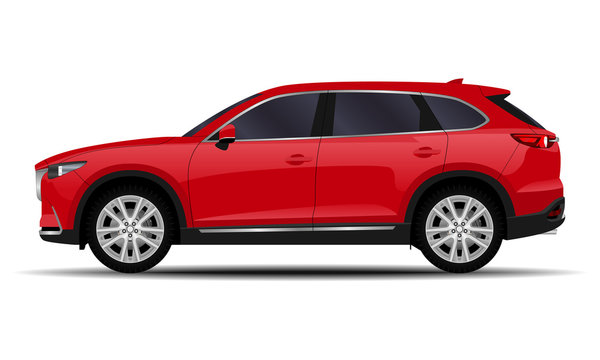
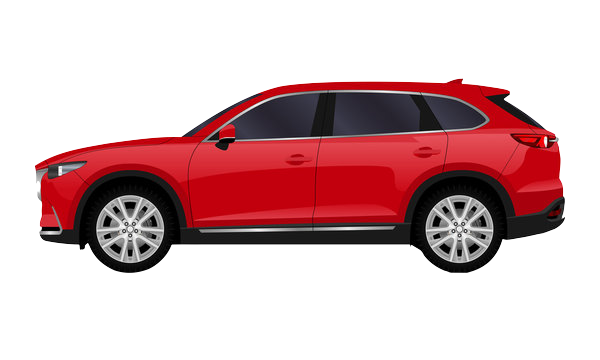
make some changes on images

diff --git a/styles/main.css b/styles/main.css
@@ -14,10 +14,10 @@ body {
 .box {
   position: absolute;
   top: 300px;
-  width: 500px;
-  height: 300px;
+  width: 550px;
+  height: 350px;
   background-size: cover;
-  background-image: url("../images/car1.jpg");
+  background-image: url("../images/car1.png");
   animation-name: car1;
   animation-delay: 1s;
   animation-duration: 10s;
@@ -47,7 +47,7 @@ body {
   width: 100px;
   height: 100px;
   animation-name: sun;
-  background-image: url("../images/sun.jpg");
+  background-image: url("../images/sun.png");
   background-size: cover;
   animation-delay: 0.5ms;
   animation-iteration-count: infinite;
